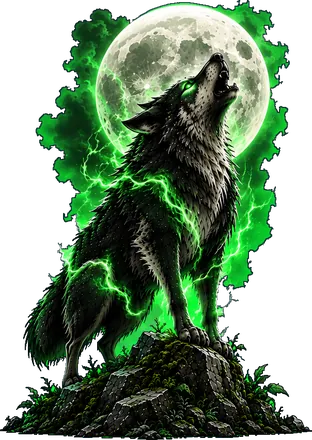
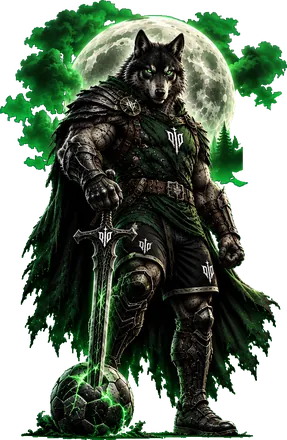
Pesadelo Verde FC: mascote nova (o lobo de armadura no lugar do lobo uivando)
Ordem do Diego: "troque o mascote do pesadelo verde por esse aqui". So a MASCOTE
trocou — escudo e camisa continuam os de 18/09.

287x440, 43,8 KB (com o escudo de 29,0 KB da 72,8 KB dos 75 do teto). A largura
mudou (era 312x440), entao a proporcao REAL foi atualizada junto.

O CORTE MAIS PERIGOSO ATE HOJE — e por isso tem script proprio
(scripts/recorta-pesadelo-mascote.py): o clube e VERDE-NEON e o fundo e VERDE
CHROMA. Medi ANTES de cortar: o criterio de sempre (g>150 e muito acima de R/B)
apagava 20% do desenho — a fumaca, o brilho da espada, as rachaduras da bola e os
olhos do lobo. A saida foi mirar a COR EXATA do chroma ((10,243,94), distancia RGB
< 60). A distancia e bimodal: 41,4% do quadro abaixo de 40 e so +1,9% entre 40 e
100, ou seja o fundo e um bloco isolado e a arte nao encosta nele.

E A MASCOTE ESTAVA GRUDADA NA CAMISA: a fumaca dela encosta no ombro da camisa no
render, nao existe coluna vazia entre as duas — regua nao separa e erosao nao
quebra a ponte. Quem separa e a CAMISA (maior ilha sem neon da direita, contorno
preenchido e tirada do quadro).
Isso deixava um RISCO RETO na nuvem, bem visivel na conferencia. Entao a borda que
nasceu do corte recua numa ONDA de 8-38 px, so nos pixels de fumaca: nuvem tem
borda irregular, reta nao.

Ainda no branch, esperando o OK visual dele. Da pra voltar atras revertendo este
commit — a arte antiga volta junto.

Claude-Session: https://claude.ai/code/session_018Ap1zPCMVL9XeZJN3u93ZA

diff --git a/src/escalacao/mascotes.tsx b/src/escalacao/mascotes.tsx
@@ -575,11 +575,19 @@ export const MASCOTES: Record<string, ReactNode> = {
   gugu_bigode: (
     <img src={guguMascoteImg} height={176} width={Math.round(176 * 320 / 440)} alt="O Bigode — White Thigs do GuGu" style={{ flex: 'none', display: 'block', objectFit: 'contain' }} />
   ),
-  // 🌑🐺 O Pesadelo — Pesadelo Verde FC (portaltech.ep, batismo 18/09). 312x440 no
-  // arquivo, então a largura sai da PROPORÇÃO REAL. O lobo uivando pra lua cheia
-  // em cima da pedra, com o raio verde em volta.
+  // 🌑🐺 O Pesadelo — Pesadelo Verde FC (portaltech.ep, batismo 18/09).
+  // 🔁 ARTE NOVA em 19/09, a pedido do dono pelo Diego (*"troque o mascote do
+  // pesadelo verde por esse aqui"*): saiu o lobo uivando na pedra, entrou o LOBO
+  // DE ARMADURA, de capa esfarrapada, espada fincada e o pé em cima da bola —
+  // com a mesma cena atrás (lua cheia, fumaça verde e os pinheiros), que é a cara
+  // do clube e já era assim na arte antiga.
+  // 📏 287×440, 43,8 KB (com o escudo dá 72,8 KB dos 75 do teto) — a largura sai
+  // da PROPORÇÃO REAL do arquivo, que mudou (era 312×440).
+  // ⚠ O recorte tem script próprio (`scripts/recorta-pesadelo-mascote.py`): o
+  //    clube é VERDE-NEON em cima de fundo VERDE CHROMA, e o critério de sempre
+  //    apagava 20% do desenho. Lá o alvo é a COR EXATA do chroma, não "o verde".
   pesadelo_lobo: (
-    <img src={pesadeloMascoteImg} height={176} width={Math.round(176 * 312 / 440)} alt="O Pesadelo — Pesadelo Verde FC" style={{ flex: 'none', display: 'block', objectFit: 'contain' }} />
+    <img src={pesadeloMascoteImg} height={176} width={Math.round(176 * 287 / 440)} alt="O Pesadelo — Pesadelo Verde FC" style={{ flex: 'none', display: 'block', objectFit: 'contain' }} />
   ),
   // 🦊 A Bestia — La Bestia Negra (eltonfrossard45, 18/09). 368x440 no arquivo,
   // então a largura sai da PROPORÇÃO REAL (nunca width={size} chutado). A raposa
@@ -1035,7 +1043,7 @@ export const MASCOTE_NOME: Record<string, string> = {
   reidabola_leao: 'O Rei', // 👑🦁 Rei da Bola FC (caiobegnamii, 16/09) — o leão coroado
   porco_marinheiro: 'O Marujo', // ⚓🐷 Marinheiros AS (feehcamp11, 16/09) — o porco marujo de cachimbo e espinafre. ⚠ nome PROVISÓRIO: a arte veio sem nome de mascote, confirmar com o dono
   gugu_bigode: 'O Bigode', // ⚽🥋 White Thigs do GuGu (18/09) — o torcedor de bucket hat no bloco "COXA SEMPRE". ⚠ nome PROVISÓRIO: a prancha veio sem nome de mascote, confirmar com o dono
-  pesadelo_lobo: 'O Pesadelo', // 🌑🐺 Pesadelo Verde FC (portaltech.ep, 18/09) — o lobo uivando pra lua. ⚠ nome PROVISÓRIO: a arte veio sem nome de mascote, confirmar com o dono
+  pesadelo_lobo: 'O Pesadelo', // 🌑🐺 Pesadelo Verde FC (portaltech.ep, 18/09) — desde 19/09 é o lobo de armadura com a espada e o pé na bola (era o lobo uivando). ⚠ nome PROVISÓRIO: as duas artes vieram sem nome de mascote, confirmar com o dono
   leao_thor: 'O Leão de Thor', // 🦁⚡ Remoçada (luiz.maia.luiz, arte do dono em 18/09) — o Leão do Remo de elmo alado com o Mjölnir. ⚠ nome PROVISÓRIO: a arte veio sem nome de mascote, confirmar com o dono
   raposa: 'A Bestia', // 🦊 La Bestia Negra (eltonfrossard45, 18/09) — a raposa azul do escudo. ⚠ nome PROVISÓRIO: a arte veio sem nome de mascote, confirmar com o dono
   fridao_cavalo: 'O Fridão', // 🐴 Fridão FC (felipe.ofrida, 16/09) — o cavalo alvinegro coroado, de crina branca. ⚠ nome PROVISÓRIO: a arte veio sem nome de mascote, confirmar com o dono

diff --git a/scripts/recorta-pesadelo-mascote.py b/scripts/recorta-pesadelo-mascote.py
@@ -1,0 +1,95 @@
+#!/usr/bin/env python3
+# ─── 🌑🐺 RECORTE DA MASCOTE NOVA DO PESADELO VERDE FC (19/09) ───────────────
+#
+# O Diego mandou a prancha nova (escudo + mascote + camisa) e pediu SÓ a mascote:
+# *"troque o mascote do pesadelo verde por esse aqui"*. É o lobo de armadura com a
+# espada e o pé na bola, com a LUA, a FUMAÇA VERDE e os pinheiros atrás — cena
+# inteira, igual a mascote antiga dele (que também vinha com lua e fumaça).
+#
+# ⚠ POR QUE ESTE CORTE É O MAIS PERIGOSO QUE JÁ FIZEMOS:
+#    o clube é VERDE-NEON e o fundo é VERDE CHROMA. O critério de sempre
+#    (`g > 150 e muito acima de R/B`) apagava **20% do desenho** — a fumaça, o
+#    brilho da espada, as rachaduras da bola e os olhos do lobo. Medi antes de
+#    cortar, e por isso aqui o alvo é a COR EXATA do chroma:
+#      chroma medido = (10, 243, 94) · corte = distância RGB < 60.
+#    A distância é BIMODAL: 41,4% do quadro fica abaixo de 40 e só +1,9% entre 40
+#    e 100. Ou seja, o chroma é um bloco isolado e a arte não encosta nele.
+#
+# ✂ E A MASCOTE ESTAVA GRUDADA NA CAMISA. A fumaça do lobo encosta no ombro da
+#    camisa no render — não existe coluna vazia entre as duas, então régua não
+#    separa e erosão não quebra a ponte. O que separa é a CAMISA: ela é a maior
+#    ilha sem neon da direita; acho ela, preencho o contorno e tiro do quadro.
+#
+# 🩹 O REMENDO QUE ISSO EXIGE: cortar pela silhueta da camisa deixa um RISCO RETO
+#    na nuvem (ficou bem visível na conferência — parece tesourada). Então a borda
+#    que nasceu do corte é recuada com uma ONDA (ruído suave), só nos pixels de
+#    fumaça e só perto do corte. Nuvem tem borda irregular; reta, não.
+#
+# uso: python3 scripts/recorta-pesadelo-mascote.py <prancha.png> <saida.png>
+import sys
+import numpy as np
+import cv2
+from PIL import Image
+
+ORIG, SAIDA = sys.argv[1], sys.argv[2]
+im = np.array(Image.open(ORIG).convert('RGB')).astype(np.float32)
+H, W, _ = im.shape
+r, g, b = im[:, :, 0], im[:, :, 1], im[:, :, 2]
+
+# 1⃣ o fundo é a COR EXATA do chroma (não "o que é verde")
+CHROMA = np.array([10, 243, 94], np.float32)
+dist = np.linalg.norm(im - CHROMA, axis=2)
+arte = dist >= 60
+print(f'fundo chroma: {100 * (~arte).mean():.1f}% do quadro')
+assert 30 <= 100 * (~arte).mean() <= 60, 'proporção de fundo estranha — remedir o chroma'
+
+# 2⃣ a CAMISA: maior ilha de arte-sem-neon na metade direita da prancha
+neon = (g > 140) & (g - r > 60) & (g - b > 55)          # a fumaça e o brilho
+semneon = (arte & ~neon).astype(np.uint8)
+semneon[:, :int(W * 0.65)] = 0
+n, rot, st, _ = cv2.connectedComponentsWithStats(semneon, 8)
+i = max(range(1, n), key=lambda k: st[k, cv2.CC_STAT_AREA])
+cont, _ = cv2.findContours((rot == i).astype(np.uint8), cv2.RETR_EXTERNAL, cv2.CHAIN_APPROX_SIMPLE)
+camisa = np.zeros((H, W), np.uint8)
+cv2.drawContours(camisa, cont, -1, 255, cv2.FILLED)
+camisa = cv2.dilate(camisa, np.ones((7, 7), np.uint8)) > 0   # come o contorno preto dela
+print(f'camisa achada: x {st[i, 0]}..{st[i, 0] + st[i, 2]} · y {st[i, 1]}..{st[i, 1] + st[i, 3]}')
+
+# 3⃣ a MASCOTE: a maior ilha do que sobra (sem o escudo, que fica na esquerda)
+sobra = (arte & ~camisa).astype(np.uint8)
+sobra[:, :int(W * 0.28)] = 0
+sobra = cv2.morphologyEx(sobra, cv2.MORPH_OPEN, np.ones((3, 3), np.uint8))
+n2, rot2, st2, _ = cv2.connectedComponentsWithStats(sobra, 8)
+j = max(range(1, n2), key=lambda k: st2[k, cv2.CC_STAT_AREA])
+masc = (rot2 == j)
+
+# 4⃣ 🩹 DESFAZ O RISCO RETO: a borda que encostou na camisa recua numa ONDA
+corte = masc & (cv2.dilate(camisa.astype(np.uint8), np.ones((9, 9), np.uint8)) > 0)
+if corte.any():
+    dcorte = cv2.distanceTransform((~corte).astype(np.uint8), cv2.DIST_L2, 5)
+    rng = np.random.default_rng(7)
+    onda = cv2.GaussianBlur(rng.normal(0, 1, (H, W)).astype(np.float32), (0, 0), 16.0)
+    onda = (onda - onda.min()) / max(onda.max() - onda.min(), 1e-6)   # 0..1
+    recuo = 8 + 30 * onda                                             # 8..38 px
+    masc = masc & ~(neon & (dcorte < recuo))
+    n3, rot3, st3, _ = cv2.connectedComponentsWithStats(masc.astype(np.uint8), 8)
+    masc = rot3 == max(range(1, n3), key=lambda k: st3[k, cv2.CC_STAT_AREA])
+    print(f'borda reta desfeita: {int(corte.sum())} px de corte viraram onda de 8–38 px')
+
+# 5⃣ 💨 DERRAME: a franja esverdeada na borda que encostava no chroma
+rgb = im.copy()
+borda = (cv2.dilate((~arte).astype(np.uint8), np.ones((5, 5), np.uint8)) > 0) & arte
+teto = np.maximum(rgb[:, :, 0], rgb[:, :, 2])
+derrama = borda & (rgb[:, :, 1] > teto + 60)   # folgado: o desenho É verde
+rgb[:, :, 1] = np.where(derrama, teto + 60, rgb[:, :, 1])
+print(f'franja de chroma limpa em {int(derrama.sum())} px')
+
+# 6⃣ 📏 caixa honesta: alfa ≥ 40 e pelo menos 3 px na linha/coluna
+alfa = np.where(masc, 255, 0).astype(np.uint8)
+m = alfa >= 40
+lin = np.where(m.sum(axis=1) >= 3)[0]
+col = np.where(m.sum(axis=0) >= 3)[0]
+y0, y1, x0, x1 = lin[0], lin[-1] + 1, col[0], col[-1] + 1
+peca = np.dstack([rgb[y0:y1, x0:x1].astype(np.uint8), alfa[y0:y1, x0:x1]])
+Image.fromarray(peca).save(SAIDA)
+print(f'{SAIDA}: {x1 - x0}x{y1 - y0} · desenho ocupa {100 * m[y0:y1, x0:x1].mean():.0f}% da caixa')

diff --git a/docs/pendencias.md b/docs/pendencias.md
@@ -1,3 +1,33 @@
+## 19/09/2026 (parte 17) — 🌑🐺 Mascote NOVA do Pesadelo Verde FC
+
+Ordem dele, curta: *"troque o mascote do pesadelo verde por esse aqui"*. Saiu o
+lobo uivando na pedra, entrou o **lobo de armadura** com capa esfarrapada, espada
+fincada e o pé em cima da bola — mesma cena atrás (lua, fumaça verde, pinheiros),
+que é a cara do clube e já era assim na arte antiga. **Só a mascote trocou**:
+escudo e camisa continuam os de 18/09.
+
+- 📏 **287×440 · 43,8 KB** (com o escudo de 29,0 KB dá **72,8 KB** dos 75 do teto).
+  A largura mudou (era 312×440), então a proporção foi atualizada junto.
+- ⚠ **O corte mais perigoso até hoje, e por isso tem script próprio**
+  (`scripts/recorta-pesadelo-mascote.py`): o clube é VERDE-NEON sobre fundo VERDE
+  CHROMA. Medi antes de cortar — o critério de sempre (`g > 150 e muito acima de
+  R/B`) apagava **20% do desenho**: a fumaça, o brilho da espada, as rachaduras da
+  bola e os olhos do lobo. A saída foi mirar a **COR EXATA** do chroma
+  (`(10,243,94)`, distância RGB < 60): a distância é bimodal (41,4% abaixo de 40 e
+  só +1,9% entre 40 e 100), ou seja o fundo é um bloco isolado e a arte não encosta.
+- ✂ **A mascote estava GRUDADA na camisa** — a fumaça encosta no ombro dela e não
+  existe coluna vazia entre as duas, então régua não separa e erosão não quebra a
+  ponte. Quem separa é a CAMISA: maior ilha sem neon da direita, contorno
+  preenchido e tirada do quadro.
+- 🩹 **E isso deixava um RISCO RETO na nuvem** (pareceu tesourada na conferência).
+  A borda nascida do corte agora recua numa **onda** de 8–38 px, só nos pixels de
+  fumaça: nuvem tem borda irregular, reta não.
+
+⏳ **O nome da mascote segue provisório** ("O Pesadelo") — as duas artes vieram sem
+nome. Vale perguntar pro dono.
+
+---
+
 ## 19/09/2026 (parte 16) — 📍 Futpoint FC de CARA NOVA (arte que o dono refez)
 
 Ele mandou a prancha nova do **Futpoint FC** (gfpicolo13, **SÓCIO nº27** — não é
